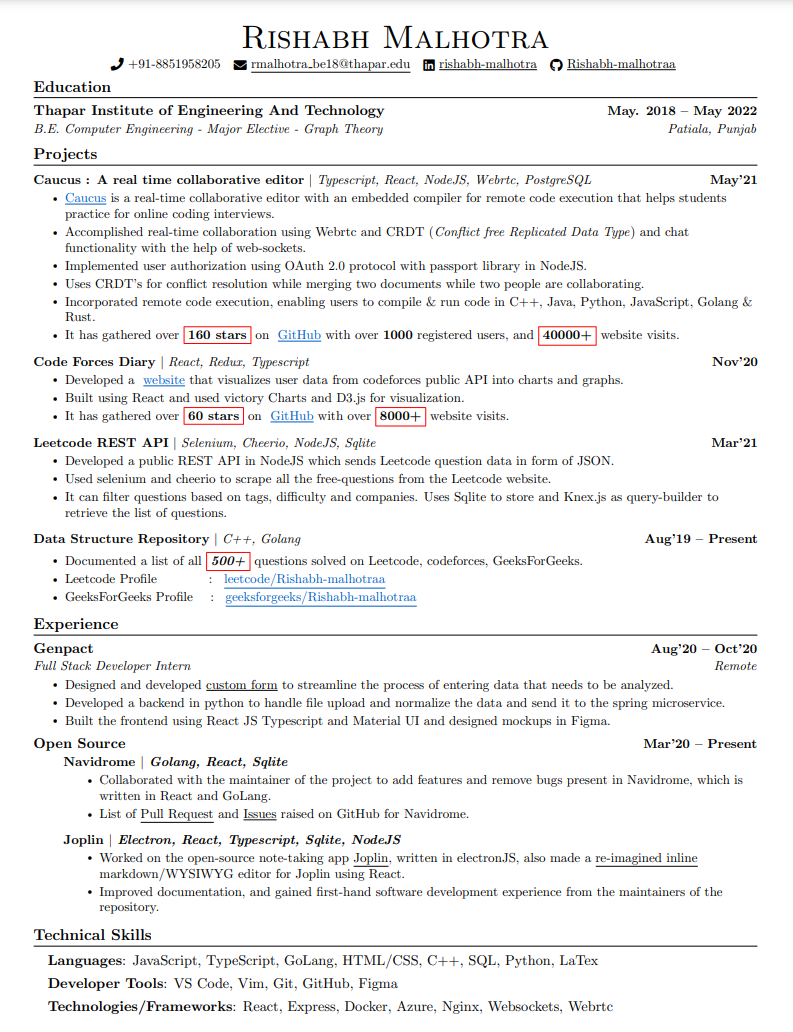
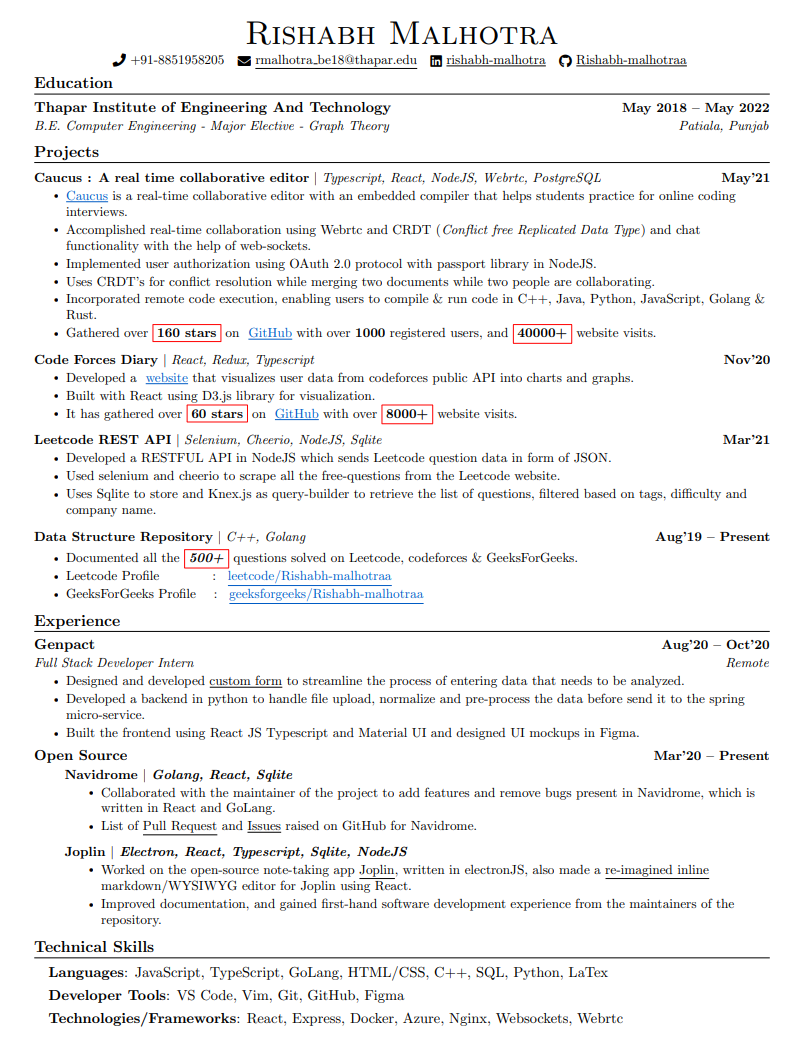
improving ✒

Changed region(s): [[0.0303, 0.0, 0.9685, 0.9922], [0.8777, 0.4031, 0.9685, 0.4341], [0.9079, 0.3411, 0.9685, 0.3721]]

diff --git a/main.tex b/main.tex
@@ -123,6 +123,10 @@
 \begin{document}
 
 %----------HEADING----------
+% \begin{tabular*}{\textwidth}{l@{\extracolsep{\fill}}r}
+%   \textbf{\href{http://sourabhbajaj.com/}{\Large Sourabh Bajaj}} & Email : \href{mailto:sourabh@sourabhbajaj.com}{sourabh@sourabhbajaj.com}\\
+%   \href{http://sourabhbajaj.com/}{http://www.sourabhbajaj.com} & Mobile : +1-123-456-7890 \\
+% \end{tabular*}
 
 \begin{center}
     {\Huge \scshape Rishabh Malhotra} \\ \vspace{3pt}
@@ -138,7 +142,7 @@
 \section{Education}
   \resumeSubHeadingListStart
     \resumeSubheading
-      {Thapar Institute of Engineering And Technology}{May. 2018 -- May 2022}
+      {Thapar Institute of Engineering And Technology}{May 2018 -- May 2022}
       {B.E. Computer Engineering - Major Elective - Graph Theory}{Patiala, Punjab}
   \resumeSubHeadingListEnd
 
@@ -169,35 +173,35 @@
       \resumeProjectHeading
           {\textbf{Caucus : A real time collaborative editor} $|$ \emph{Typescript, React, NodeJS, Webrtc, PostgreSQL }}{May'21}
           \resumeItemListStart
-            \resumeItem{\href{https://caucus-app.herokuapp.com/}{\color{blue} {\underline{Caucus}}} is a real-time collaborative editor with an embedded compiler for remote code execution that helps students practice for online coding interviews.}
+            \resumeItem{\href{https://caucus-app.herokuapp.com/}{\color{blue} {\underline{Caucus}}} is a real-time collaborative editor with an embedded compiler that helps students practice for online coding interviews.}
             \resumeItem{Accomplished real-time collaboration using Webrtc and CRDT (\emph{Conflict free Replicated Data Type}) and chat functionality with the help of web-sockets.}
             \resumeItem{Implemented user authorization using OAuth 2.0 protocol with passport library in NodeJS.}
             \resumeItem{Uses CRDT's for conflict resolution while merging two documents while two people are collaborating.}
             \resumeItem{Incorporated remote code execution, enabling users to compile \& run code in C++, Java, Python, JavaScript, Golang \& Rust.}
-            \resumeItem{It has gathered over \fbox{\textbf{160 stars}} on \href{https://github.com/Rishabh-malhotraa/caucus}{ \color{blue} \underline{{GitHub}}} with over \textbf{1000} registered users, and \fbox{\textbf{40000+}} website visits.}
+            \resumeItem{Gathered over \fbox{\textbf{160 stars}} on \href{https://github.com/Rishabh-malhotraa/caucus}{ \color{blue} \underline{{GitHub}}} with over \textbf{1000} registered users, and \fbox{\textbf{40000+}} website visits.}
           \resumeItemListEnd
           \vspace{-13pt}
         %   CODE FORCES DIARY PROJECT
       \resumeProjectHeading
           {\textbf{Code Forces Diary} $|$ \emph{React,  Redux, Typescript}}{Nov'20}
           \resumeItemListStart
-            \resumeItem{Developed a \href{https://codeforces-diary.netlify.app/}{ \color{blue} {\underline{website}}} that visualizes user data from codeforces public API into charts and graphs.}
-            \resumeItem{Built using React and used victory Charts and D3.js for visualization.}
+             \resumeItem{Developed a \href{https://codeforces-diary.netlify.app/}{ \color{blue} {\underline{website}}} that visualizes user data from codeforces public API into charts and graphs.}
+            \resumeItem{Built with React using D3.js library for visualization.}
             \resumeItem{It has gathered over \fbox{\textbf{60 stars}} on \href{https://github.com/Rishabh-malhotraa/codeforces-diary}{ \color{blue} \underline{{GitHub}}} with over \fbox{\textbf{8000+}} website visits.}
           \resumeItemListEnd 
           \vspace{-13pt}
           \resumeProjectHeading
           {\textbf{Leetcode REST API} $|$ \emph{Selenium, Cheerio, NodeJS, Sqlite}}{Mar'21}
           \resumeItemListStart
-            \resumeItem{Developed a public REST API in NodeJS which sends Leetcode question data in form of JSON.}
+            \resumeItem{Developed a RESTFUL API in NodeJS which sends Leetcode question data in form of JSON.}
             \resumeItem{Used selenium and cheerio to scrape all the free-questions from the Leetcode website.}
-            \resumeItem{It can filter questions based on tags, difficulty and companies. Uses Sqlite to store and Knex.js as query-builder to retrieve the list of questions.}
+            \resumeItem{Uses Sqlite to store and Knex.js as query-builder to retrieve the list of questions, filtered based on tags, difficulty and company name.}
           \resumeItemListEnd 
                     \vspace{-13pt}
           \resumeProjectHeading
           {\textbf{Data Structure Repository} $|$ \emph{C++, Golang}}{Aug'19 -- Present}
           \resumeItemListStart
-            \resumeItem{Documented a list of all \fbox{\textbf{\textit{500+}}} questions solved on Leetcode, codeforces, GeeksForGeeks.}
+            \resumeItem{Documented all the \fbox{\textbf{\textit{500+}}} questions solved on Leetcode, codeforces \& GeeksForGeeks.}
             \resumeItem{Leetcode Profile \ \ \ \ \ \ \ \  \ \ \ : \href{https://leetcode.com/Rishabh-malhotraa/}{ \color{blue} {\underline{leetcode/Rishabh-malhotraa}}}}
             \resumeItem{GeeksForGeeks Profile \ \ \ : \href{https://auth.geeksforgeeks.org/user/rishabh_malhotra/profile}{ \color{blue} {\underline{geeksforgeeks/Rishabh-malhotraa}}}}
             % \resumeItem{GeeksForGeeks Profile : 
@@ -215,8 +219,8 @@
       {Full Stack Developer Intern}{Remote}
       \resumeItemListStart
         \resumeItem{Designed and developed \href{https://crispy-spoon.netlify.app}{\underline{custom form}} to streamline the process of entering data that needs to be analyzed.}
-        \resumeItem{Developed a backend in python to handle file upload and normalize the data and send it to the spring microservice.}
-        \resumeItem{Built the frontend using React JS Typescript and Material UI and designed mockups in Figma.}
+        \resumeItem{Developed a backend in python to handle file upload, normalize and pre-process the data before send it to the spring micro-service.}
+        \resumeItem{Built the frontend using React JS Typescript and Material UI and designed UI mockups in Figma.}
       \resumeItemListEnd
 
     \resumeSubheading
@@ -224,7 +228,7 @@
       {}{}
       \vspace{-20pt}
       \resumeSubSubheadingBold{\textbf{ \ \ \ \ \ Navidrome} $|$ \emph{Golang, React, Sqlite}}{}
-        \resumeItemListStart[leftmargin=+.7in] 
+         \resumeItemListStart[leftmargin=+.7in] 
             \resumeItem{Collaborated with the maintainer of the project to add features and remove bugs present in Navidrome, which is written in React and GoLang.}
             \resumeItem{List of \href{https://github.com/navidrome/navidrome/pulls?q=is\%3Apr+author\%3Arishabh-malhotraa}{\underline{Pull Request}} and \href{https://github.com/navidrome/navidrome/issues?q=is\%3Aissue+author\%3ARishabh-malhotraa+}{\underline{Issues}} raised on GitHub for Navidrome.}
           \resumeItemListEnd 
@@ -235,19 +239,19 @@
           \resumeItemListEnd 
           \resumeItemListEnd 
 
-      \vspace{-8pt}
+       \vspace{-8pt}
 %
         %-----------PROGRAMMING SKILLS-----------
-      \section{Technical Skills}
-        \begin{itemize}[leftmargin=0.15in, label={}]
+        \section{Technical Skills}
+         \begin{itemize}[leftmargin=0.15in, label={}]
             \normalsize{\item{
-            \textbf{Languages}{: JavaScript, TypeScript, GoLang, HTML/CSS, C++, SQL, Python, LaTex} \\
-            \vspace{4pt}
-            \textbf{Developer Tools}{: VS Code, Vim, Git, GitHub, Figma } \\
-            \vspace{4pt}
-            \textbf{Technologies/Frameworks}{: React, Express, Docker, Azure, Nginx, Websockets, Webrtc} \\
+             \textbf{Languages}{: JavaScript, TypeScript, GoLang, HTML/CSS, C++, SQL, Python, LaTex} \\
+        	 \vspace{4pt}
+             \textbf{Developer Tools}{: VS Code, Vim, Git, GitHub, Figma } \\
+        	 \vspace{4pt}
+             \textbf{Technologies/Frameworks}{: React, Express, Docker, Azure, Nginx, Websockets, Webrtc} \\
             }}
-        \end{itemize}
-        \vspace{-16pt}
+         \end{itemize}
+         \vspace{-16pt}
 
 \end{document}

diff --git a/readme.md b/readme.md
@@ -5,8 +5,10 @@
 
 OR Use it on overleaf: [Template Resume](https://www.overleaf.com/latex/templates/jakes-resume-anonymous/cstpnrbkhndn)
 
-![Resume Preview](resume.png)
+[![Resume Preview][resume-preview]](https://github.com/Rishabh-malhotraa/resume/blob/main/Rishabh_Malhtora_Resume.pdf)
 
 ### Credit
 
 [JakeGut](https://github.com/jakegut/resume)
+
+[resume-preview]: resume.png
